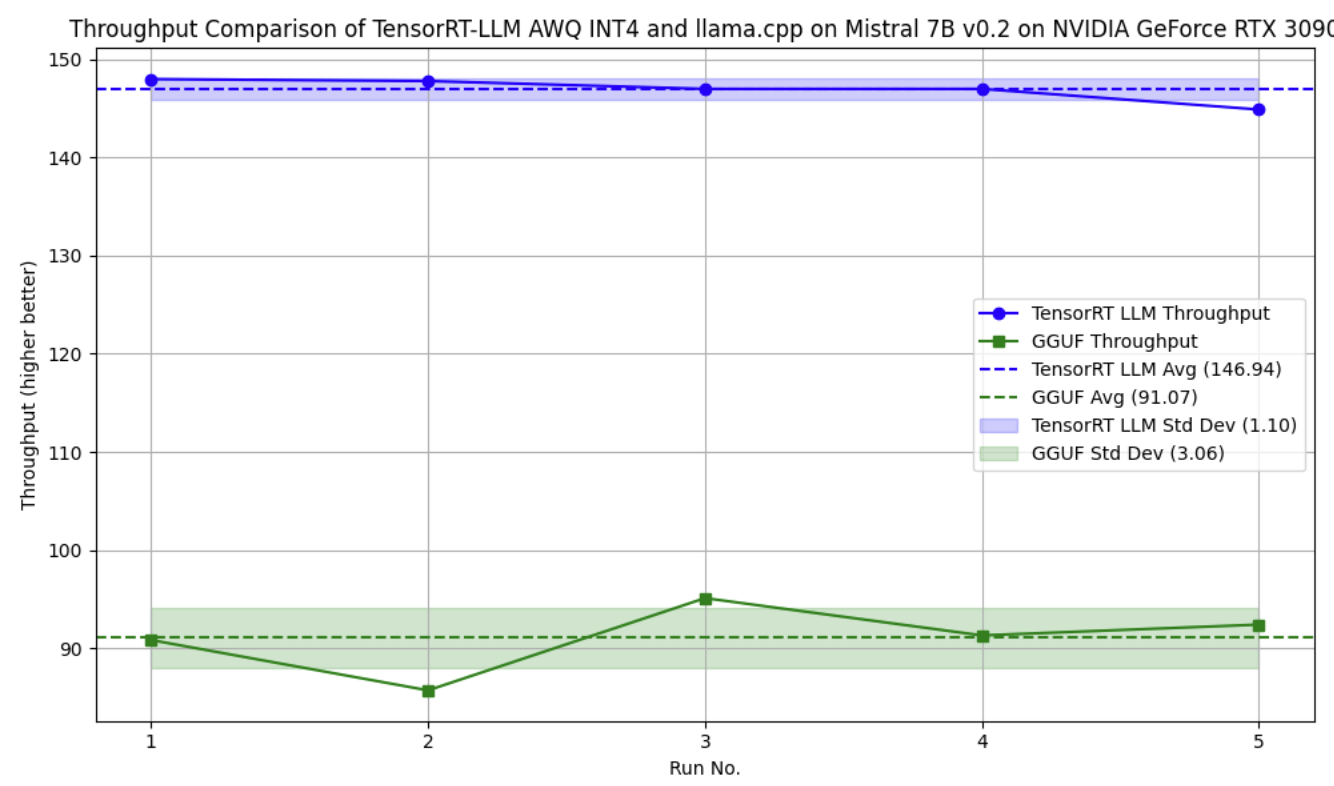
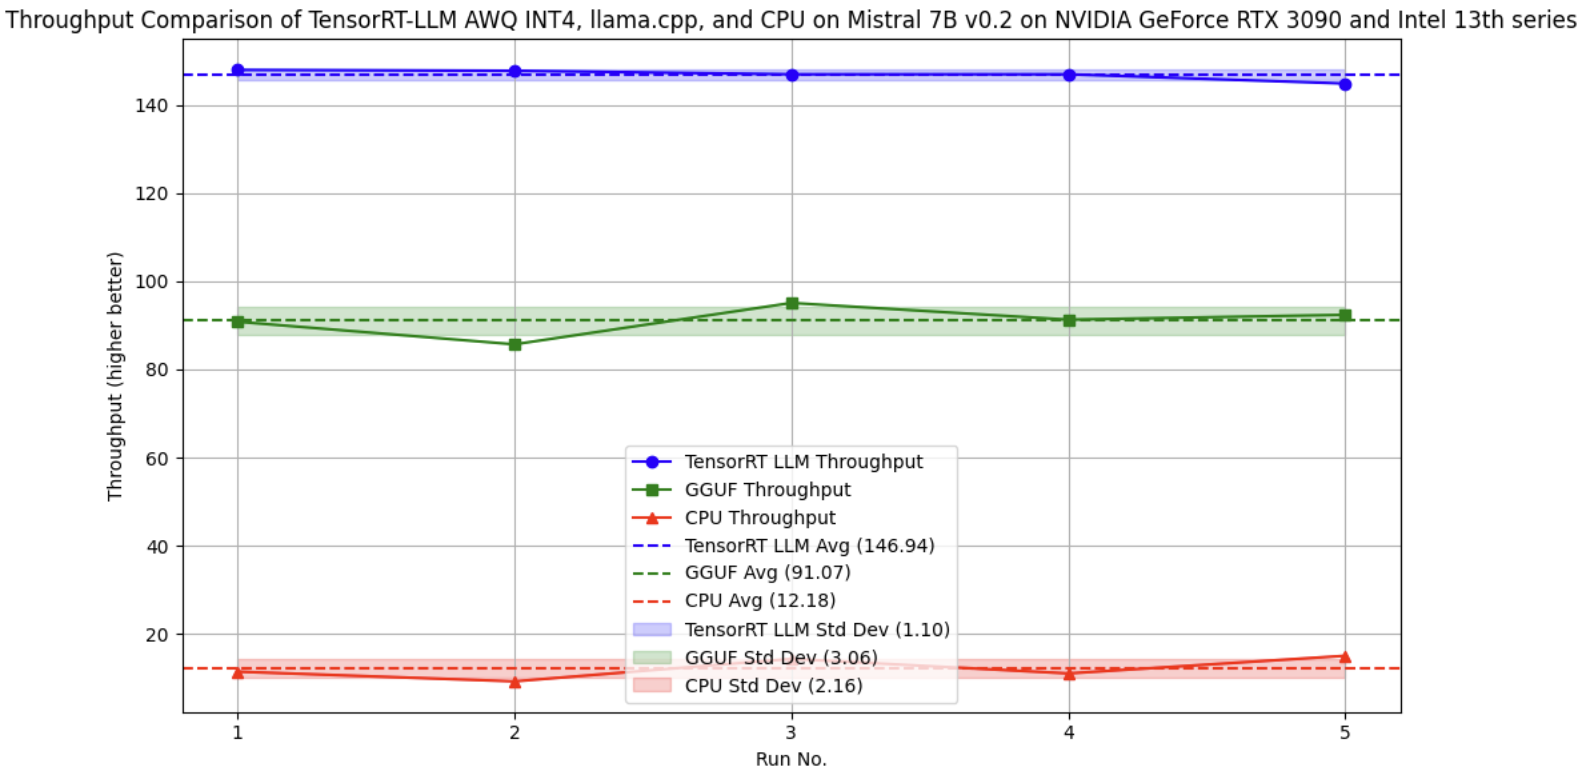
feat: Add CPU in the comparison

diff --git a/blog/2024-03-19-TensorRT-LLM.md b/blog/2024-03-19-TensorRT-LLM.md
@@ -98,12 +98,12 @@ Nvidia's RTX-4090 is their top-of-the-line consumer GPU, and retails for [approx
 
 #### Mistral-7b int4
 
-| Metrics              | GGUF (using GPU) | TensorRT-LLM | Difference     |
-| -------------------- | ---------------- | ------------ | -------------- |
-| Throughput (token/s) | 101.3            | 159          | ✅ 57% faster  |
-| VRAM Used (GB)       | 5.5              | 6.3          | 🤔 14% more    |
-| RAM Used (GB)        | 0.54             | 0.42         | 🤯 20% less    |
-| Disk Size (GB)       | 4.07             | 3.66         | 🤯 10% smaller |
+| Metrics              | GGUF (using CPU) | GGUF (using GPU) | TensorRT-LLM | Difference on GPU |
+| -------------------- | ---------------- | ---------------- | ------------ | ----------------- |
+| Throughput (token/s) | 11.42            | 101.3            | 159          | ✅ 57% faster     |
+| VRAM Used (GB)       | 0                | 5.5              | 6.3          | 🤔 14% more       |
+| RAM Used (GB)        | 0.611            | 0.54             | 0.42         | 🤯 20% less       |
+| Disk Size (GB)       | 4.07             | 4.07             | 3.66         | 🤯 10% smaller    |
 
 Here is the illustration
 ![alt text](./images/3090_benchmark_mistral_7b_int4.png)
@@ -121,17 +121,18 @@ Here is the illustration
 
 #### Mistral-7b int4
 
-| Metrics              | GGUF (using GPU) | TensorRT-LLM | Difference    |
-| -------------------- | ---------------- | ------------ | ------------- |
-| Throughput (token/s) | 90               | ✅ 140.27    | ✅ 55% faster |
-| VRAM Used (GB)       | 6.0              | 6.8          | 🤔 13% more   |
-| RAM Used (GB)        | 0.54             | 0.42         | 🤯 22% less   |
-| Disk Size (GB)       | 4.07             | 3.66         | 🤯 10% less   |
+| Metrics              | GGUF (using CPU) | GGUF (using GPU) | TensorRT-LLM | Difference on GPU |
+| -------------------- | ---------------- | ---------------- | ------------ | ----------------- |
+| Throughput (token/s) | 14.0             | 90               | 140.27       | ✅ 55% faster     |
+| VRAM Used (GB)       | 0                | 6.0              | 6.8          | 🤔 13% more       |
+| RAM Used (GB)        | 0.611            | 0.54             | 0.42         | 🤯 22% less       |
+| Disk Size (GB)       | 4.07             | 4.07             | 3.66         | 🤯 10% smaller    |
 
 ![alt text](./images/4090_benchmark_mistral_7b_int4.png)
 
 ## Conclusion
 
+- LLM inference is possible on CPU, but you get 10x performance with NVIDIA GPU
 - On NVIDIA GeForce RTX and 7B model at INT4, TensorRT-LLM yields ~55% faster compared to llama.cpp at the moment while using less RAM, VRAM and model disk size.
 - With 7B moel at INT4, NVIDIA GTX Geforce 4090 performs ~12% better compared to NVIDIA GTX Geforce 4090.
 - We also found out that the performance with TensorRT-LLM can increase around 15% if we enable [XMP](https://www.intel.com/content/www/us/en/gaming/extreme-memory-profile-xmp.html) in BIOS for RAM bus speed from 3600 to 5600.
